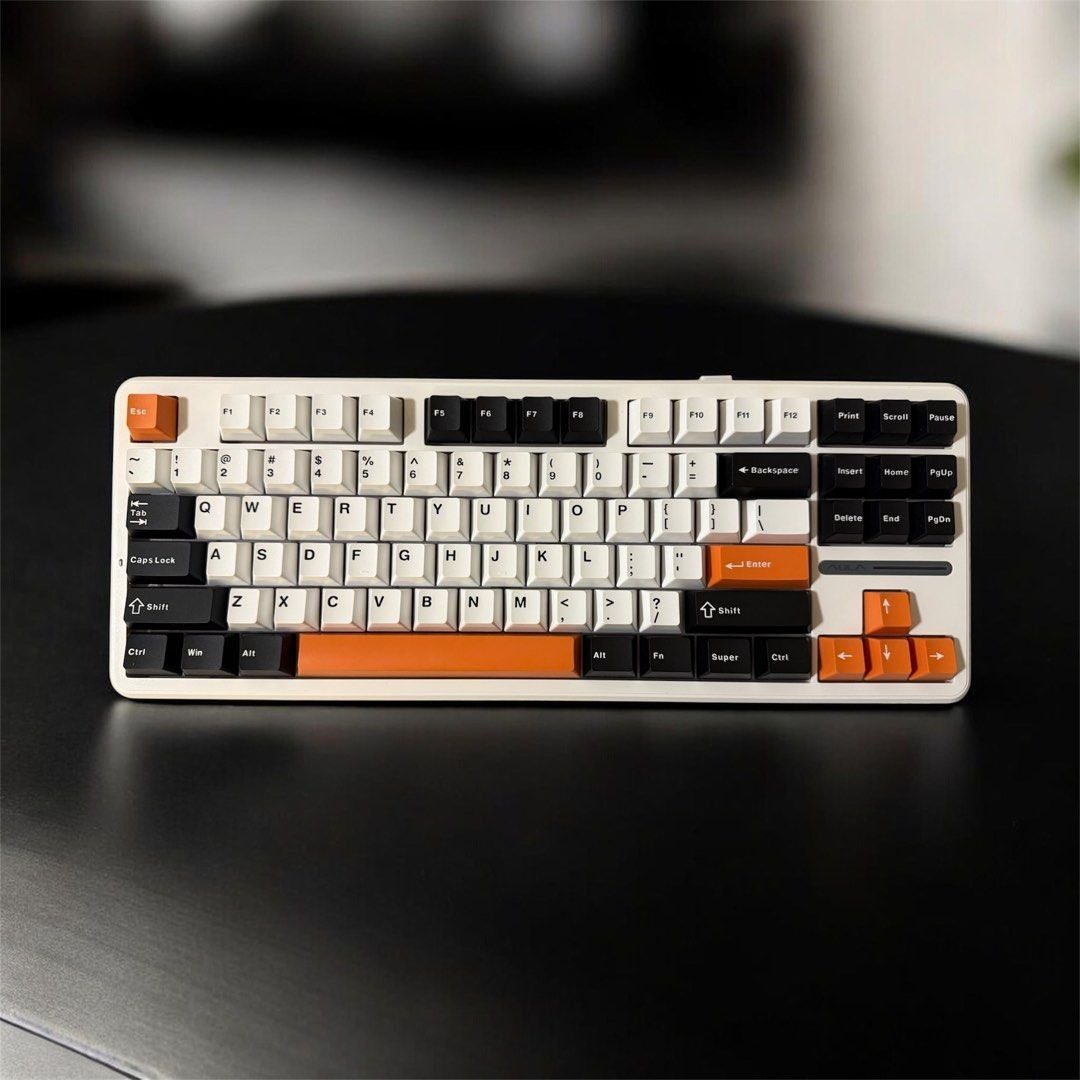
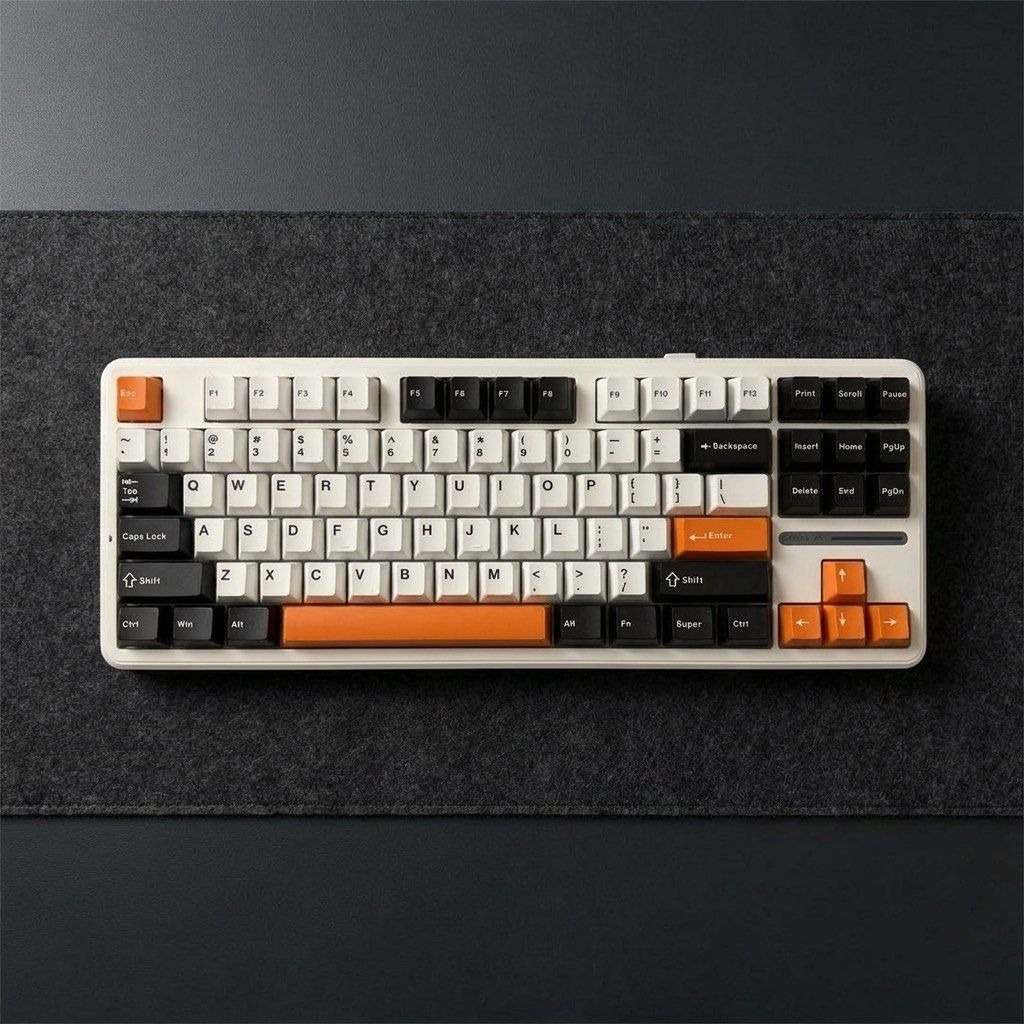
update product links

diff --git a/src/routes/aula-f75/+page.svelte b/src/routes/aula-f75/+page.svelte
@@ -114,7 +114,7 @@
 			<p class="tagline">{product.tagline}</p>
 			<p class="price">${product.price} SGD</p>
 			<a
-				href="https://www.carousell.sg/p/creamy-epomaker-x-aula-f75-mechanical-keyboard-1438533202/?referrer_source=me_page"
+				href="https://www.carousell.sg/p/creamy-epomaker-x-aula-f75-mechanical-keyboard-1444690135/?t-id=DKpYKLlX5V_1780729958132&t-referrer_browse_type=seller&t-referrer_page_type=profile&t-referrer_request_id=ZD2fPusJZu0_XfcA&t-tap_index=1"
 				target="_blank"
 				rel="noopener noreferrer"
 				class="buy-btn"

diff --git a/src/routes/aula-f87/+page.svelte b/src/routes/aula-f87/+page.svelte
@@ -117,7 +117,7 @@
 			<p class="tagline">{product.tagline}</p>
 			<p class="price">${product.price} SGD</p>
 			<a
-				href="https://www.carousell.sg/p/creamy-aula-f87-mechanical-keyboard-1431287649/?referrer_source=me_page"
+				href="https://www.carousell.sg/p/creamy-aula-f87-mechanical-keyboard-1445465867/?t-id=DKpYKLlX5V_1780729958132&t-referrer_browse_type=seller&t-referrer_page_type=profile&t-referrer_request_id=7aw_C4Vkn_P-i2fx&t-tap_index=0"
 				target="_blank"
 				rel="noopener noreferrer"
 				class="buy-btn"

diff --git a/src/routes/aula-win68he/+page.svelte b/src/routes/aula-win68he/+page.svelte
@@ -101,7 +101,7 @@
 			<p class="tagline">{product.tagline}</p>
 			<p class="price">${product.price} SGD</p>
 			<a
-				href="https://www.carousell.sg/p/aula-win68-he-hall-effect-mechanical-keyboard-1425404685/?referrer_source=me_page/"
+				href="https://www.carousell.sg/p/aula-win68he-hall-effect-mechanical-keyboard-1444887472/?t-id=DKpYKLlX5V_1780729958132&t-referrer_browse_type=seller&t-referrer_page_type=profile&t-referrer_request_id=LfXpJjF1Er1byYq5&t-tap_index=2"
 				target="_blank"
 				rel="noopener noreferrer"
 				class="buy-btn"